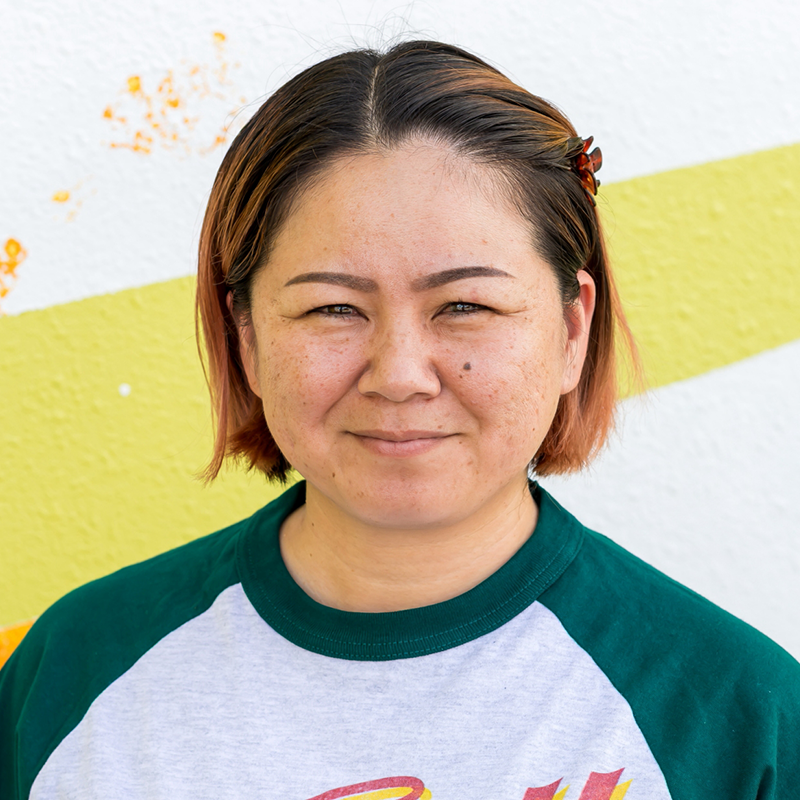
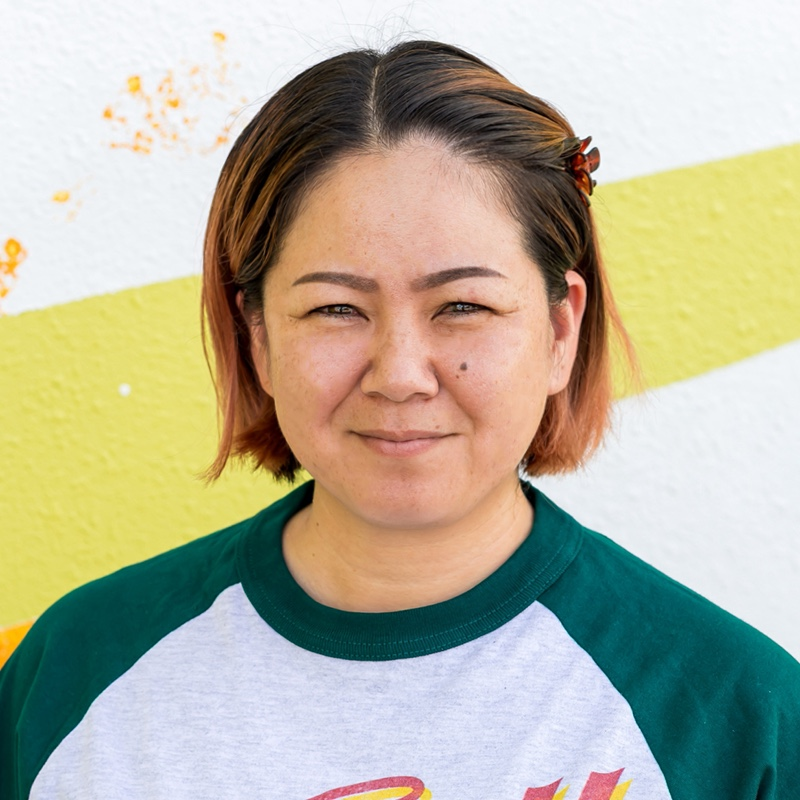
wip(toaru): スタッフ写真7枚の差し替え・事業案内の導線を文字だけに・TOPの私たちについてを左揃え
- スタッフ写真7枚を受領版（サイズ・見た目調整済み）に差し替え（だいご・安慶名・當銘・仲宗根・吉田・渡口・仲吉）。PNG受領分はjpeg品質90へ変換しファイル名を維持
- 事業案内の導線: 矢印のspanをやめ「ここある・クラシバ↓」の文字列に。見出し「3つの事業」は外す
- TOPの私たちについて: テキスト列を左に70px詰め（left:760→690px）、見出し・文字・ボタンを左揃えに（align-items:center→flex-start）

diff --git a/styles.css b/styles.css
@@ -330,7 +330,8 @@ body.page-service .fv-inner {
   align-self: center;
   flex-shrink: 0;
   margin-top: 0;
-  margin-bottom: 64px;
+  /* 2026-09-09: 直下に導線を追加。導線側paddingと合算で空きすぎるため64→24（Saori指摘の「半分に」） */
+  margin-bottom: 24px;
 }
 body.page-service .fv-text {
   position: absolute;
@@ -589,50 +590,42 @@ body.page-index section#services h4 {
 }
 
 /* ===== 事業案内 セクション導線（2026-09-09 MTG: 下部セクションへ飛べるように）===== */
-/* 装飾はページ上部の「Services」ラベルと同じピル型（背景#b4b6a7・紺1px枠・角丸16px）を踏襲 */
+/* 装飾はセクションの縦書きバッジと同じ（背景#edebbf・紺4px枠・影4px・角丸16px。9/9カズキタ＆Saori） */
 body.page-service .service-nav-label {
   display: block;
   width: 100%;
   margin: 0;
-  padding: 32px 20px 0;
+  padding: 16px 20px 0;
   text-align: center;
   line-height: 1;
 }
 body.page-service .service-nav-label span {
   display: inline-block;
-  background-color: #b4b6a7;
-  border: 1px solid #0e2349;
+  background-color: #edebbf;
+  border: 4px solid #0e2349;
+  box-shadow: 4px 4px 0px #0e2349;
   border-radius: 16px;
-  padding: 7px 20px;
+  padding: 12px 28px;
   font-family: 'Noto Sans JP', sans-serif;
   font-weight: 600;
-  font-size: 14px;
+  font-size: 20px;
   line-height: 1.4;
-  letter-spacing: 1.6px;
+  letter-spacing: 3.2px;
   color: #0e2349;
-  font-feature-settings: "pkna" 1, "palt" 1;
-}
-/* 番号はセクション側のService 01/02/03と呼応させる */
-body.page-service .service-nav-num {
-  font-family: 'Roboto', sans-serif;
-  font-weight: 500;
-  font-size: 13px;
-  letter-spacing: 1px;
-  opacity: 0.6;
-  margin-right: 2px;
+  font-feature-settings: "pkna" 1;
 }
 body.page-service .service-nav {
   display: flex;
   justify-content: center;
   gap: 48px;
   flex-wrap: wrap;
-  padding: 16px 20px 32px;
+  padding: 24px 20px 32px;
   width: 100%;
 }
 body.page-service .service-nav a {
   display: inline-flex;
   align-items: center;
-  gap: 6px;
+  gap: 0;
   font-family: 'Noto Sans JP', sans-serif;
   font-weight: 600;
   font-size: 16px;
@@ -645,10 +638,6 @@ body.page-service .service-nav a {
 }
 body.page-service .service-nav a:hover {
   opacity: 0.7;
-}
-body.page-service .service-nav-arrow {
-  font-size: 14px;
-  line-height: 1;
 }
 
 /* ===== body.page-about 固有クラス（PCのみ）===== */
@@ -1327,7 +1316,7 @@ body.page-recruit .sp-section-badge { display: none; }
     display: flex !important;
     flex-direction: column !important;
     gap: 24px !important;
-    padding: 24px 16px 32px !important;
+    padding: 24px 16px 12px !important; /* 2026-09-09: 導線追加に伴い下を32→12 */
     align-self: auto !important;
   }
   body.page-service .fv-text {
@@ -1372,24 +1361,28 @@ body.page-recruit .sp-section-badge { display: none; }
      3項目=27字は375px幅に1行で入らない（11pxまで縮めても340px必要＝実測）。
      可読性を優先し2行の自然折返しにする。高さ約60pxで、ボタン型の縦積み190pxより軽い */
   body.page-service .service-nav-label {
-    padding: 24px 12px 0;
+    padding: 12px 12px 0;
   }
-  body.page-service .service-nav-label span { font-size: 13px; padding: 6px 16px; }
-  body.page-service .service-nav-num { font-size: 11px; }
+  body.page-service .service-nav-label span {
+    font-size: 17px;
+    padding: 10px 22px;
+    border-width: 3px;
+    box-shadow: 3px 3px 0px #0e2349;
+    letter-spacing: 2.4px;
+  }
   body.page-service .service-nav {
     gap: 8px 20px;
-    padding: 12px 12px 24px;
+    padding: 20px 12px 24px;
     justify-content: center;
     flex-wrap: wrap;
   }
   body.page-service .service-nav a {
     font-size: 14px;
     letter-spacing: 0;
-    gap: 2px;
+    gap: 0;
     text-underline-offset: 4px;
   }
-  body.page-service .service-nav-arrow { font-size: 12px; }
-
+  
   body.page-service .sp-section-badge {
     /* 1行バジェット: 11字@375px＝(375−40−6)÷(26+2)。超過は文言側で解く（2026-09-03）
        視覚定義は上の共通 .sp-section-badge へ統合（2026-09-03）。ここは位置指定のみ */

diff --git a/service.html b/service.html
@@ -92,11 +92,11 @@
     </div>
 
     <!-- section nav（2026-09-09 MTG: 下部セクションへの導線・だいごさん指摘） -->
-    <p class="service-nav-label"><span>3つの事業</span></p>
+    <!-- <p class="service-nav-label"><span>3つの事業</span></p> 見出しなし版を試行中（9/9 Saori。戻すならこの行を有効化） -->
     <nav class="service-nav" aria-label="事業案内の目次">
-      <a href="#service-care"><span class="service-nav-num" aria-hidden="true">01</span>ここある・クラシバ<span class="service-nav-arrow" aria-hidden="true">↓</span></a>
-      <a href="#service-training"><span class="service-nav-num" aria-hidden="true">02</span>研修・トレーニング<span class="service-nav-arrow" aria-hidden="true">↓</span></a>
-      <a href="#service-community"><span class="service-nav-num" aria-hidden="true">03</span>地域に開いたこころみ<span class="service-nav-arrow" aria-hidden="true">↓</span></a>
+      <a href="#service-care">ここある・クラシバ↓</a>
+      <a href="#service-training">研修・トレーニング↓</a>
+      <a href="#service-community">地域に開いたこころみ↓</a>
     </nav>
 
     <!-- Service 01 -->

diff --git a/index.html b/index.html
@@ -305,7 +305,7 @@
           </div>
         </div>
         <!-- text area -->
-        <div style="position:absolute; display:flex; flex-direction:column; gap:40px; align-items:center; left:760px; top:100px; width:320px;">
+        <div style="position:absolute; display:flex; flex-direction:column; gap:40px; align-items:flex-start; left:690px; top:100px; width:320px;">
           <!-- title image -->
           <div style="display:flex; flex-direction:column; gap:24px; align-items:flex-start; position:relative; flex-shrink:0;">
             <div style="height:132px; position:relative; flex-shrink:0; width:320px;">
